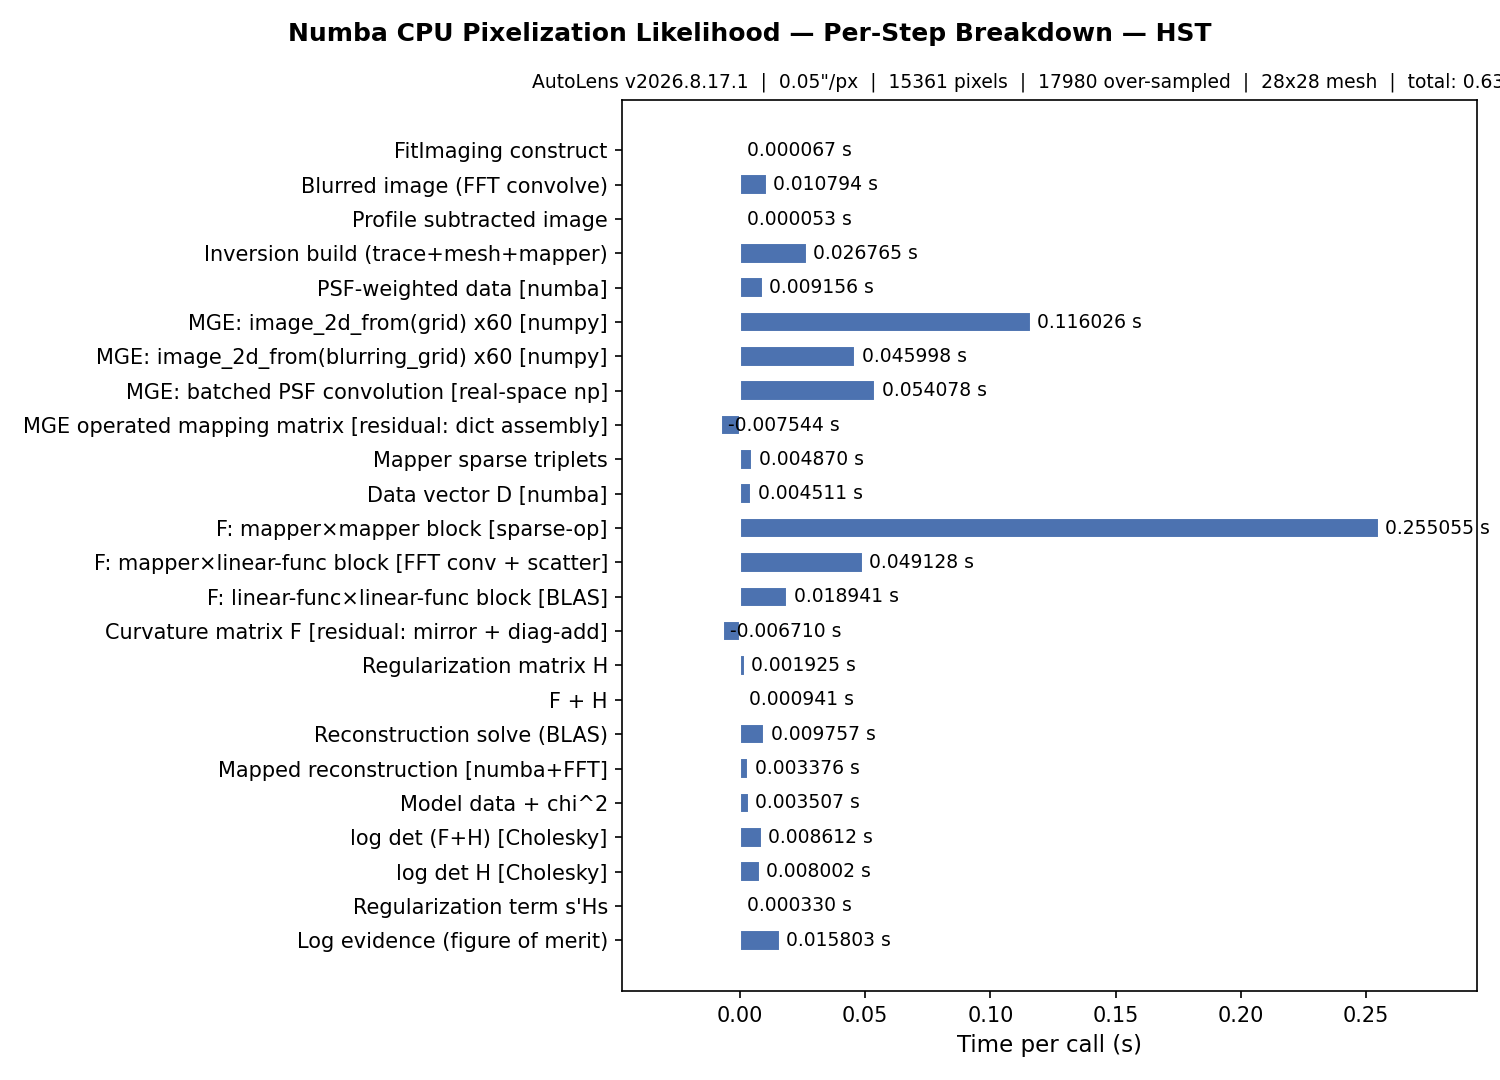
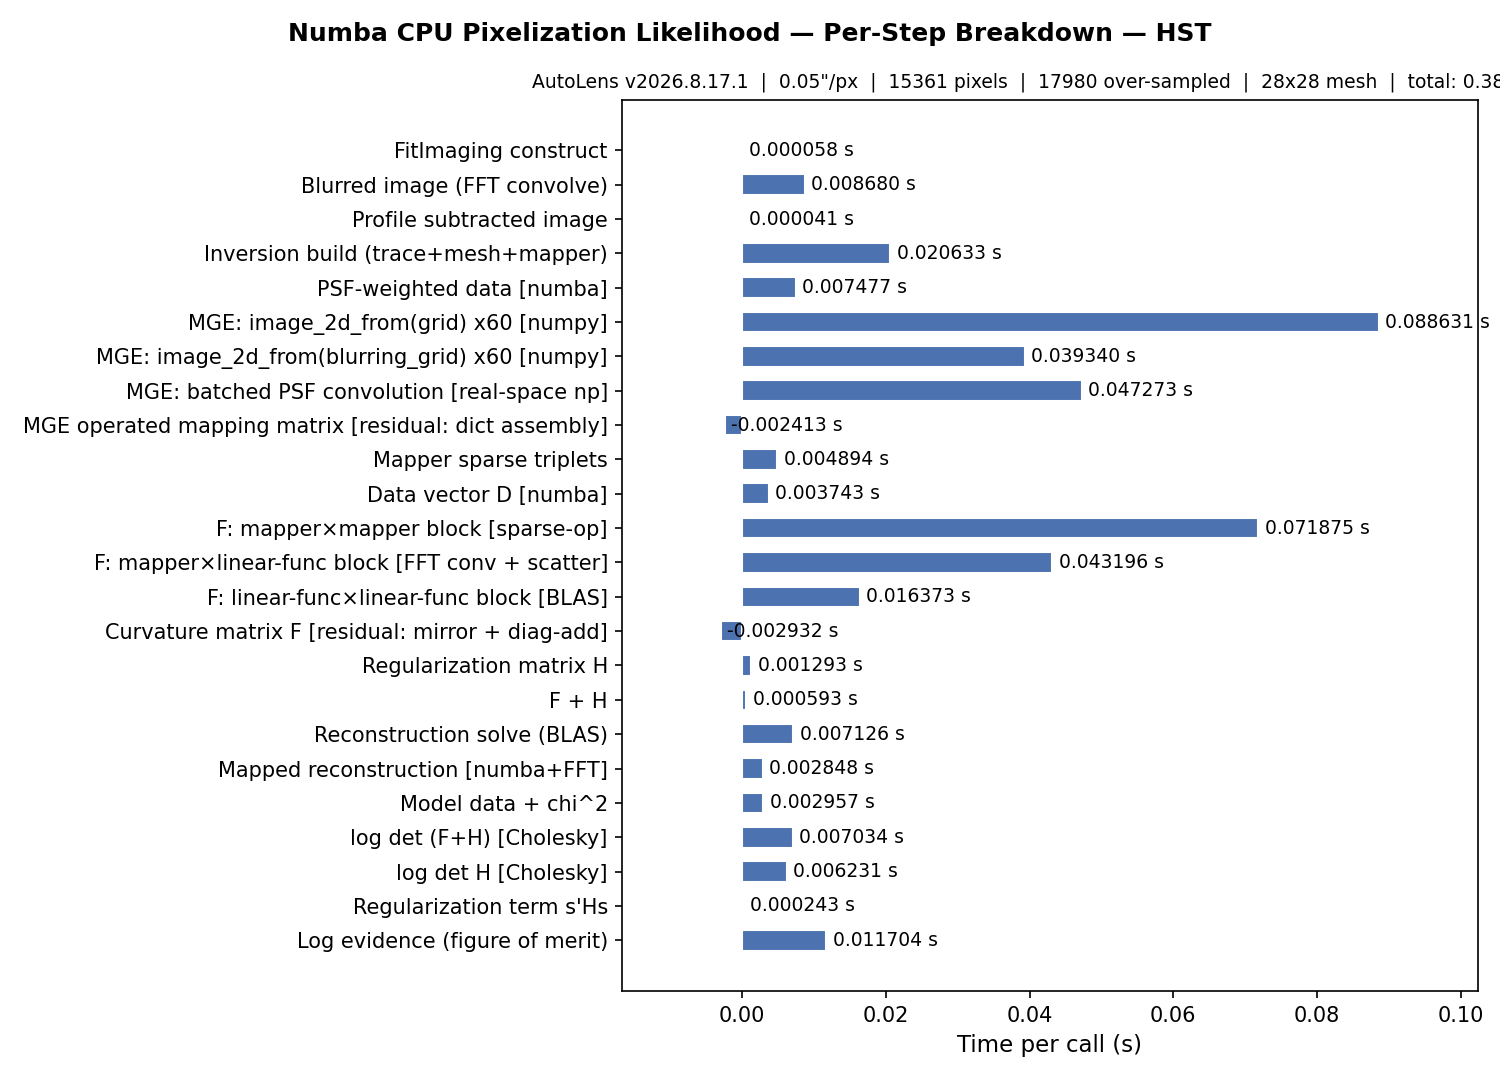
profiling: re-run the three numba CPU cells after the two-stage curvature kernel (#507)
Artifacts only -- no harness change. Re-run on PyAutoArray 88e14bc6 (#507 step 2,
the two-stage mapper x mapper source-space accumulator), same environment as the
step-0 baseline: OMP_NUM_THREADS=1, AUTOARRAY_NUMBA_OPERATED_MEMO=0, n_repeats
10, worktree PyAutoArray on PYTHONPATH, first post-rebuild run discarded.

  step-by-step total          before    after
    hst rectangular          0.6334 s  0.3869 s
    euclid rectangular       0.1978 s  0.1652 s
    hst delaunay             0.7344 s  0.5403 s

  F: mapper x mapper block
    hst rectangular          0.2551 s  0.0719 s
    euclid rectangular       0.0491 s  0.0168 s
    hst delaunay             0.1304 s  0.0607 s

All three pinned log likelihoods pass at rtol=1e-6 (euclid has no pin and prints
its value, unchanged at 6213.306873885871).

These harness numbers are *unpaired* across sessions, so they carry this host's
20-30 % run-to-run variance -- the MGE rows move here too, and nothing in this
task touched them. The paired same-session before/after that the speed-up claim
rests on is in the PyAutoArray commit message and on the issue.

Auto-tables regenerated (`build_readme.py`); only this task's three rows move.

Refs PyAutoLabs/PyAutoArray#507

Claude-Session: https://claude.ai/code/session_01Fr6iJ5T1RDARWfxttCuGkK

diff --git a/README.md b/README.md
@@ -62,7 +62,7 @@ Results are framed by **astronomy instrument** (HST, Euclid, JWST, …) rather t
 | `imaging/delaunay` | hst | hpc_a100_mp | dense (mapping) | 96.8 ms | v2026.7.6.649 |
 | `imaging/delaunay` | hst | hpc_a100_mp | sparse (w-tilde) | 95.5 ms | v2026.7.6.649 |
 | `imaging/delaunay_numba` | euclid | local_cpu_fp64 | sparse (numba) | 1.19 s | v2026.8.17.1 |
-| `imaging/delaunay_numba` | hst | local_cpu_fp64 | sparse (numba) | 734.4 ms | v2026.8.17.1 |
+| `imaging/delaunay_numba` | hst | local_cpu_fp64 | sparse (numba) | 540.3 ms | v2026.8.17.1 |
 | `imaging/mge` | hst | local_cpu_fp64 | dense (mapping) | 179.5 ms | v2026.7.6.649 |
 | `imaging/mge` | hst | hpc_a100_fp64 | dense (mapping) | 7.8 ms | v2026.7.6.649 |
 | `imaging/pixelization` | hst | local_cpu_fp64 | dense (mapping) | 8.65 s | v2026.7.6.649 |
@@ -71,8 +71,8 @@ Results are framed by **astronomy instrument** (HST, Euclid, JWST, …) rather t
 | `imaging/pixelization` | hst | hpc_a100_fp64 | sparse (w-tilde) | 57.9 ms | v2026.7.6.649 |
 | `imaging/pixelization` | hst | hpc_a100_mp | dense (mapping) | 56.4 ms | v2026.7.6.649 |
 | `imaging/pixelization` | hst | hpc_a100_mp | sparse (w-tilde) | 55.5 ms | v2026.7.6.649 |
-| `imaging/pixelization_numba` | euclid | local_cpu_fp64 | sparse (numba) | 209.5 ms | v2026.8.17.1 |
-| `imaging/pixelization_numba` | hst | local_cpu_fp64 | sparse (numba) | 633.4 ms | v2026.8.17.1 |
+| `imaging/pixelization_numba` | euclid | local_cpu_fp64 | sparse (numba) | 165.2 ms | v2026.8.17.1 |
+| `imaging/pixelization_numba` | hst | local_cpu_fp64 | sparse (numba) | 386.9 ms | v2026.8.17.1 |
 <!-- END auto-table:headline -->
 
 The tables above are auto-generated by `scripts/misc/tooling/build_readme.py` from the artifacts under [`results/`](./results/README.md) — never edit them by hand; run `python scripts/misc/tooling/build_readme.py` after a profiling run and commit the result (CI checks idempotence via `--check`). Narrative context — per-cell "where to optimize next" recommendations and the mp-vs-fp64 verdicts — lives in [`scripts/misc/likelihood_runtime/OPTIMIZATION_NOTES.md`](./scripts/misc/likelihood_runtime/OPTIMIZATION_NOTES.md).

diff --git a/scripts/misc/likelihood_breakdown/README.md b/scripts/misc/likelihood_breakdown/README.md
@@ -26,7 +26,7 @@ For *how long the likelihood actually takes* on production hardware — i.e. a s
 | `imaging/delaunay` | hst | hpc_a100_mp | dense (mapping) | 96.8 ms | v2026.7.6.649 |
 | `imaging/delaunay` | hst | hpc_a100_mp | sparse (w-tilde) | 95.5 ms | v2026.7.6.649 |
 | `imaging/delaunay_numba` | euclid | local_cpu_fp64 | sparse (numba) | 1.19 s | v2026.8.17.1 |
-| `imaging/delaunay_numba` | hst | local_cpu_fp64 | sparse (numba) | 734.4 ms | v2026.8.17.1 |
+| `imaging/delaunay_numba` | hst | local_cpu_fp64 | sparse (numba) | 540.3 ms | v2026.8.17.1 |
 | `imaging/mge` | hst | local_cpu_fp64 | dense (mapping) | 179.5 ms | v2026.7.6.649 |
 | `imaging/mge` | hst | hpc_a100_fp64 | dense (mapping) | 7.8 ms | v2026.7.6.649 |
 | `imaging/pixelization` | hst | local_cpu_fp64 | dense (mapping) | 8.65 s | v2026.7.6.649 |
@@ -35,8 +35,8 @@ For *how long the likelihood actually takes* on production hardware — i.e. a s
 | `imaging/pixelization` | hst | hpc_a100_fp64 | sparse (w-tilde) | 57.9 ms | v2026.7.6.649 |
 | `imaging/pixelization` | hst | hpc_a100_mp | dense (mapping) | 56.4 ms | v2026.7.6.649 |
 | `imaging/pixelization` | hst | hpc_a100_mp | sparse (w-tilde) | 55.5 ms | v2026.7.6.649 |
-| `imaging/pixelization_numba` | euclid | local_cpu_fp64 | sparse (numba) | 209.5 ms | v2026.8.17.1 |
-| `imaging/pixelization_numba` | hst | local_cpu_fp64 | sparse (numba) | 633.4 ms | v2026.8.17.1 |
+| `imaging/pixelization_numba` | euclid | local_cpu_fp64 | sparse (numba) | 165.2 ms | v2026.8.17.1 |
+| `imaging/pixelization_numba` | hst | local_cpu_fp64 | sparse (numba) | 386.9 ms | v2026.8.17.1 |
 <!-- END auto-table:breakdown -->
 
 Auto-generated by `scripts/build_readme.py` from the versioned artifacts under `results/breakdown/`.
